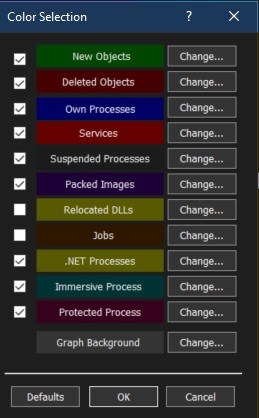
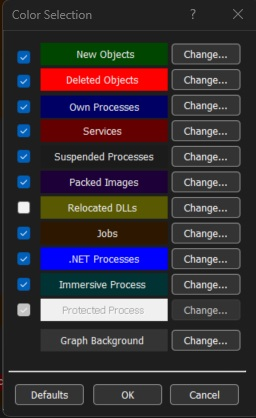
Added more info

diff --git a/src/tasks/300300-ProcessFundes/ProcessExplorer.md b/src/tasks/300300-ProcessFundes/ProcessExplorer.md
@@ -20,4 +20,20 @@
 
     ![Select Columns](Images/63_50_ColumnSelection.jpg)
 
-9. 
+9. New objects are colored green. <kbd>⊞ Win</kbd>+<kbd>R</kbd> and then cmd, to start a cmd. You will notice that this is marked as green. This color appears for a few seconds. You can change it as follows.
+
+    ![Highlight duration](Images/64_50_DiffHighlightDuration.jpg)
+
+and we set it as follows.
+
+    ![Highlight duration setting](Images/65_50_DiffHighlightDurationSetting.jpg)
+
+10. Dotnet process. The color for dotnet process are dark blue. Click the item.
+
+    ![Highlight duration](Images/64_50_DiffHighlightDuration.jpg)
+
+11. You need to be an admin to see the following. Explore different tabs such as dotnet performance. 
+
+![Dotnet process](Images/66_50_DotnetProcessDetails.jpg)
+
+12. 
